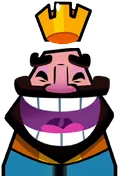
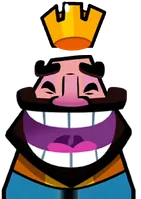
Enlarge the king emote by 15%
The frames are re-rendered at the new size, so they keep the same pixel density as before. The head now overlaps the bubble's top line, like the princess.

diff --git a/src/client/components/emotes.tsx b/src/client/components/emotes.tsx
@@ -25,7 +25,7 @@ const EMOTES: Record<Emote["id"], { size: string; bust?: boolean }> = {
   perso: { size: "h-[86px] w-[108px]" },
   goblin: { size: "h-[53.7px] w-[76px]", bust: true },
   princess: { size: "h-[58.4px] w-[45.9px]", bust: true },
-  king: { size: "h-[53.3px] w-[37px]", bust: true },
+  king: { size: "h-[60.3px] w-[42.7px]", bust: true },
 };
 
 function EmoteArt({ id, animated = false }: { id: Emote["id"]; animated?: boolean }) {
